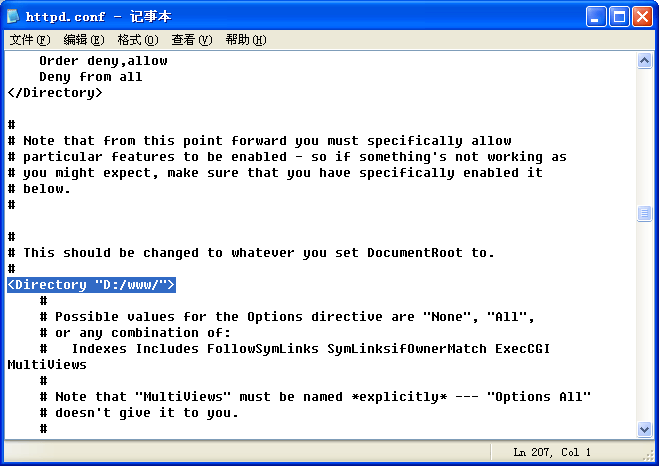
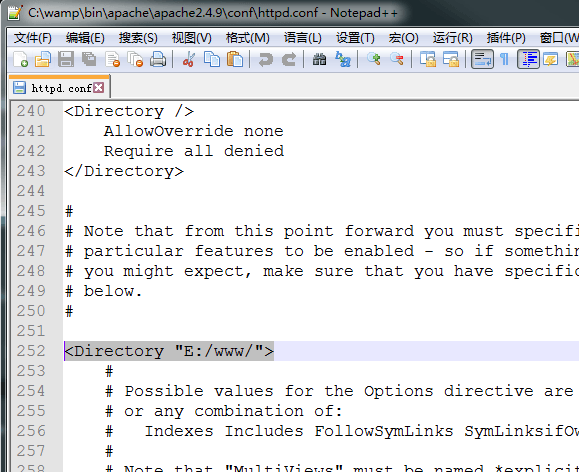
wamp 更新

diff --git a/工具使用/Wamp环境配置（Windows）/README.md b/工具使用/Wamp环境配置（Windows）/README.md
@@ -1,86 +1,113 @@
 #Wamp环境配置（Windows）
 
->官网<http://www.wampserver.com>下载。本文中使用的版本是Wampserver2.2e，其中包括Apache:2.2.22、MySQL:5.5.24、PHP:5.3.13、PHPMyAdmin:3.5.1、SqlBuddy:1.3.3、XDebug:2.2.0。win7以上系统可以安装最新版，xp只能安装2.2e及更低版本。
+>[官网](http://www.wampserver.com)下载。本文中使用的版本是Wampserver2.2e，其中包括Apache:2.2.22、MySQL:5.5.24、PHP:5.3.13、PHPMyAdmin:3.5.1、SqlBuddy:1.3.3、XDebug:2.2.0。
+>
+>win7以上系统可以安装最新版，xp只能安装2.2e及更低版本。
 	
 1. 安装
+
 	>不要试图从 Wamp5 1.x（x 代表任意数字）版本升级到这个版本，如果已经安装了 Wamp5.1.x，请保存数据，然后在安装这个新版本之前卸载 Wamp5，并删除相关文件夹。对于新用户来说，本机上没有安装过 WampServer，所以不考虑这个问题。
-	>但是，需要说明的是，如果计算机中安装着 Apache 或者 PHP 解释器 或者 MySQL 数据库的话，也最好先将它们卸载。因为程序安装完成之后要打开相应的端口，如果之前安装的这些程序没有卸载掉，端口仍然占用，会使本程序打开端口失败。
+	>
+	>如果计算机中安装着**Apache**、**PHP解释器**或者**MySQL数据库**的话，也最好先将它们卸载。因为程序安装完成之后要打开相应的端口，如果之前安装的这些程序没有卸载掉，端口仍然占用，会使本程序打开端口失败。
 	
 	安装接近尾声时会提示选择默认浏览器，后续会输入一些 PHP的邮件参数信息，可以保留默认设置。
 	
 2. 调整语言
+
 	程序安装好并启动，右击系统托盘中WampServer图标，选择**language->chinese**。
 	
 3. 配置www目录
-	进入程序所在的文件夹，找到 *..\wamp\Scripts* 下的**config.inc.php**，文本打开并找到 **\$wwwDir** （默认为安装目录的 www 文件夹），修改为`$wwwDir = 'D:/www;'`，如图：
+
+	进入程序所在的文件夹，找到 *..\wamp\Scripts* 下的 **config.inc.php**，文本打开并找到`\$wwwDir`（默认为安装目录的 www 文件夹），修改为`$wwwDir = 'E:/www;'`，如图：
+
 	![Alt text](./images/1.png)
 	
-	>注意：Windows 里的文件夹为 D:\www，这里的是 `D:/www`。
+	>注意：Windows 里的文件夹为`E:\www`，这里的是 `E:/www`，斜杠方向的区别。
 	
 	保存文件，退出 Wamp再次进入即可生效。
 	
-	生效后点击系统托盘中的图标，点击“www 目录”菜单项后就会打开设置的目录（请先确保系统中存在此文件夹）。
+	左击系统托盘中的WampServer，选择**www 目录**菜单项后就会打开设置好的目录。
+
+	>请先确保系统中存在此文件夹。
 	
 4. 配置 Apache Web 服务器
-	设置主目录：单击系统托盘中的WampServer，选择**Apache->httpd.conf**配置文件，找到如下图所示的代码（DocumentRoot，注意前面没有井号#），注意Windows路径里面的“\”（反斜杠）都要替换成“/”（正斜杠），路径外面的双引号要保留：
+
+	设置主目录：左击系统托盘中的WampServer，选择**Apache->httpd.conf**配置文件，找到`DocumentRoot`，设置为`DocumentRoot "E:/www/"`：
+
 	![Alt text](./images/2.png)
 	
 	继续查找如下，设置的目录要和上一步所设置的目录一样，如图所示：
+
 	![Alt text](./images/3.png)	
 	
-	重新启动 Apache Web 服务器生效修改 。
+	重新启动Apache Web服务器生效修改。
 	
 5. 配置 PHP 解释器
 	- PHP 核心配置：
-		默认情况下，PHP不允许执行一些函数，但是这些往往造成一些应用不能实现，因此需调整过来，单击系统托盘，选择菜单中的 **PHP->PHP设置**，依次点击下图右边所示的那些允许启用的项（设置完一个后等待服务器完全重启再进行下一个设置）：
+
+		默认情况下，PHP不允许执行一些函数，但是这些往往造成一些应用不能实现，因此需调整过来，左击系统托盘中的WampServer，选择**PHP->PHP 设置**，依次点击下图右边所示的那些允许启用的项（设置完一个后等待服务器完全重启再进行下一个设置），不同系统服务可能不同：
+
 		![Alt text](./images/4.png)
 		
 	- PHP 时区设置：
-		单击系统托盘，选择菜单的**PHP->php.ini**，找到[Date]字段，去掉date.timezone前的分号，并在等号后面加上`"Asia/Shanghai"`如图所示：
+
+		左击系统托盘中的WampServer，选择**PHP->php.ini**，找到`[Date]`，去掉`date.timezone`前的分号，并在等号后面加上`"Asia/Shanghai"`如图所示：
+
 		![Alt text](./images/5.png)
 
 6. 配置 MySQL 数据库
-	在phpMyAdmin主页面的菜单中点击**权限**或**用户**，在“用户概览”能看到 root 账户，单击 root 用户一行最后的编辑权限链接，如图：
+
+	左击系统托盘中的WampServer，选择**phpMyAdmin**，在打开的页面中选择**权限**或**用户**，在“用户概览”能看到 root 账户，单击 root 用户一行最后的编辑权限链接，如图：
+
 	![Alt text](./images/6.png)
 
 	出现如下图所示的界面（在主页面的中间部分）：
+
 	![Alt text](./images/7.png)
 	
 	当修改完密码，出现成功信息后，再点击主菜单的任意一项，就会产生错误，如下图所示：
+
 	![Alt text](./images/8.png)
 	
-	打开WampServer安装目录的 *apps\phpmyadmin3.5.1* 下的**config.inc.php**，文本打开，找到如下图所示选中的代码部分，单引号内的字符串就是更改之后的密码，如果是默认配置，单引号内为空，即空密码。将刚才生成的密码粘贴到单引号内，保存后就可以继续操作了：
+	打开WampServer安装目录的 *apps\phpmyadmin3.5.1* 下的 **config.inc.php**，找到`['password']`,把刚才的密码输入（如果是默认配置，单引号内为空，即空密码。）：
+
 	![Alt text](./images/9.png)
 	
 7. phpMyAdmin上传最大限制设置
+
 	php配置：文本打开目录 *wamp\bin\php\php5.2.9-2* 下的 **php.ini**，修改**upload_max_filesize、post_max_size、max_execution_time、max_input_time、memory_limit**。
 	1. 打开修改功能
 		查找**File Uploads**，设置默认允许HTTP文件上传，设置`file_uploads = On`。
+
 		![Alt text](./images/10.png)
 
 	2. 设置上传临时目录
-		查找**upload_tmp_dir**，此选项设置的是文件上传时存放文件的临时目录，必须给这个选项赋值，否则上传功能就无法实现（如果在linux环境下，必须赋予这个目录可写权限）：设置`upload_tmp_dir = "d:/wamp/tmp"`。
+		查找**upload_tmp_dir**，此选项设置的是文件上传时存放文件的临时目录，必须给这个选项赋值，否则上传功能就无法实现（如果在linux环境下，必须赋予这个目录可写权限）：设置`upload_tmp_dir = "c:/wamp/tmp"`。
 		![Alt text](./images/11.png)
 
 	3. 设置上传文件、数据字节最大限制
 		查找**upload_max_filesize**，此选项设定文件上传大小限制，设置`upload_max_filesize = 100M`。
+
 		![Alt text](./images/12.png)
 
 		查找**post_max_size**，此选项代表允许POST的数据最大字节长度。此值需大于upload_max_filesize，小于memory_limit值，一般设定该值与upload_max_filesize值相等或者略大。设置`post_max_size = 150M`。
+
 		![Alt text](./images/13.png)
 
 	4. 设置脚本页面执行、接受数据最大时间及占用最大内存
 		查找**max_execution_time**，该值设置每个脚本最大允许执行时间(秒)，0表示没有限制，脚本执行超过设置时间则会报脚本执行超时错误，不推荐设定为0。设置`max_execution_time = 200`。
 		查找**max_input_time**，该值设置php页面接受数据最大时间。设置`max_input_time = 400`。
 		查找**memory_limit**，该值设置php页面占用的最大内存，上传文件越大则内存占用越大。设置`memory_limit = 960M`。
+
 		![Alt text](./images/14.png)
 
 	5. phpAdmin配置：修改 *\wamp\apps\phpmyadmin3.1.3.1\libraries\config.default.php* 配置文件中的时间限制。
-		查找**\$cfg['ExecTimeLimit']**，0为没有时间限制，设置`$cfg['ExecTimeLimit'] = 0;`。
+		查找`\$cfg['ExecTimeLimit']``，0为没有时间限制，设置`$cfg['ExecTimeLimit'] = 0;`。
+
 		![Alt text](./images/15.png)
 
 8. Apache配置虚拟主机
-	1. 文本打开 *...wamp\bin\apache\Apache2.2.22\conf* 下的**httpd.conf**文件，找到如下模块:
+	1. 文本打开 *...wamp\bin\apache\Apache2.2.22\conf* 下的 **httpd.conf**，找到如下模块:
 		```
 		# Virtual hosts
 		#Include conf/extra/httpd-vhosts.conf
@@ -92,7 +119,7 @@
 		Include conf/extra/httpd-vhosts.conf
 		```
 		
-	2. 文本打开 *...wamp\bin\apache\Apache2.4.4\conf\extra*下的**httpd-vhosts**文件，配置localhost虚拟主机，把原内容修改成如下：
+	2. 文本打开 *...wamp\bin\apache\Apache2.4.4\conf\extra* 下的 **httpd-vhosts**，配置localhost虚拟主机，把原内容修改成如下：
 		```
 		<VirtualHost *:80>
 			ServerAdmin webmaster@dummy-host.localhost
@@ -113,9 +140,9 @@
 		</VirtualHost>   
 		```
 		
-		在www文件内新建123.com文件夹。
+		>在www文件内新建123.com文件夹。
 		
-	3. 文本	打开 *C:\WINDOWS\system32\drivers\etc* 下的**hosts**，增加代码：
+	3. 打开 *C:\WINDOWS\system32\drivers\etc* 下的 **hosts**，增加代码：
 		```
 		127.0.0.1 www.123.com
 		127.0.0.1 123.com
@@ -127,7 +154,7 @@
 		>Forbidden
 		>You don't have permission to access / on this server.
 		>这主要是目录访问权限没有设置，需要设置对目录的访问权。
-		>打开**httpd**文件，找到如下语句：
+		>打开 *...wamp\bin\apache\Apache2.2.22\conf* 下的 **httpd.conf**，找到如下语句：
 		>```
 		><Directory />
 		>   Options FollowSymLinks
@@ -136,7 +163,7 @@
 		>   Deny from all
 		></Directory>
 		>```
-		>复制以上代码，并进行目录修改，把**/**替换为`D:\www\123.com`，修改*...\wamp\bin\apache\Apache2.2.11\conf\extra*下的**httpd-vhosts.conf**文件：
+		>复制以上代码，并进行目录修改，把**/**替换为`D:\www\123.com`，修改 *...\wamp\bin\apache\Apache2.2.11\conf\extra* 下的 **httpd-vhosts.conf**：
 		>```
 		><VirtualHost *:80>
 		>   DocumentRoot "D:\www\123.com" 
@@ -153,4 +180,5 @@
 		>在浏览器中测试发现还是打不开，提示如上403 Forbidden错误，修改其中的Deny from all为`allow from all`
 
 9. 后续
-	升级chrome之后导致出现 Aestan Tray Menu 找不到有效路径问题，查看wamp安装目录下**wampmanager.ini**和**wampmanager.conf**两个文件，把里面所有chrome浏览器错误路径修改为现在正确路径，再关闭wamp，重启即解决问题。
+
+	升级chrome之后导致出现 Aestan Tray Menu 找不到有效路径问题，查看 `..\wamp` 下的 **wampmanager.ini** 和 **wampmanager.conf**，把里面所有chrome浏览器错误路径修改为现在正确路径，再关闭wamp，重启即解决问题。
